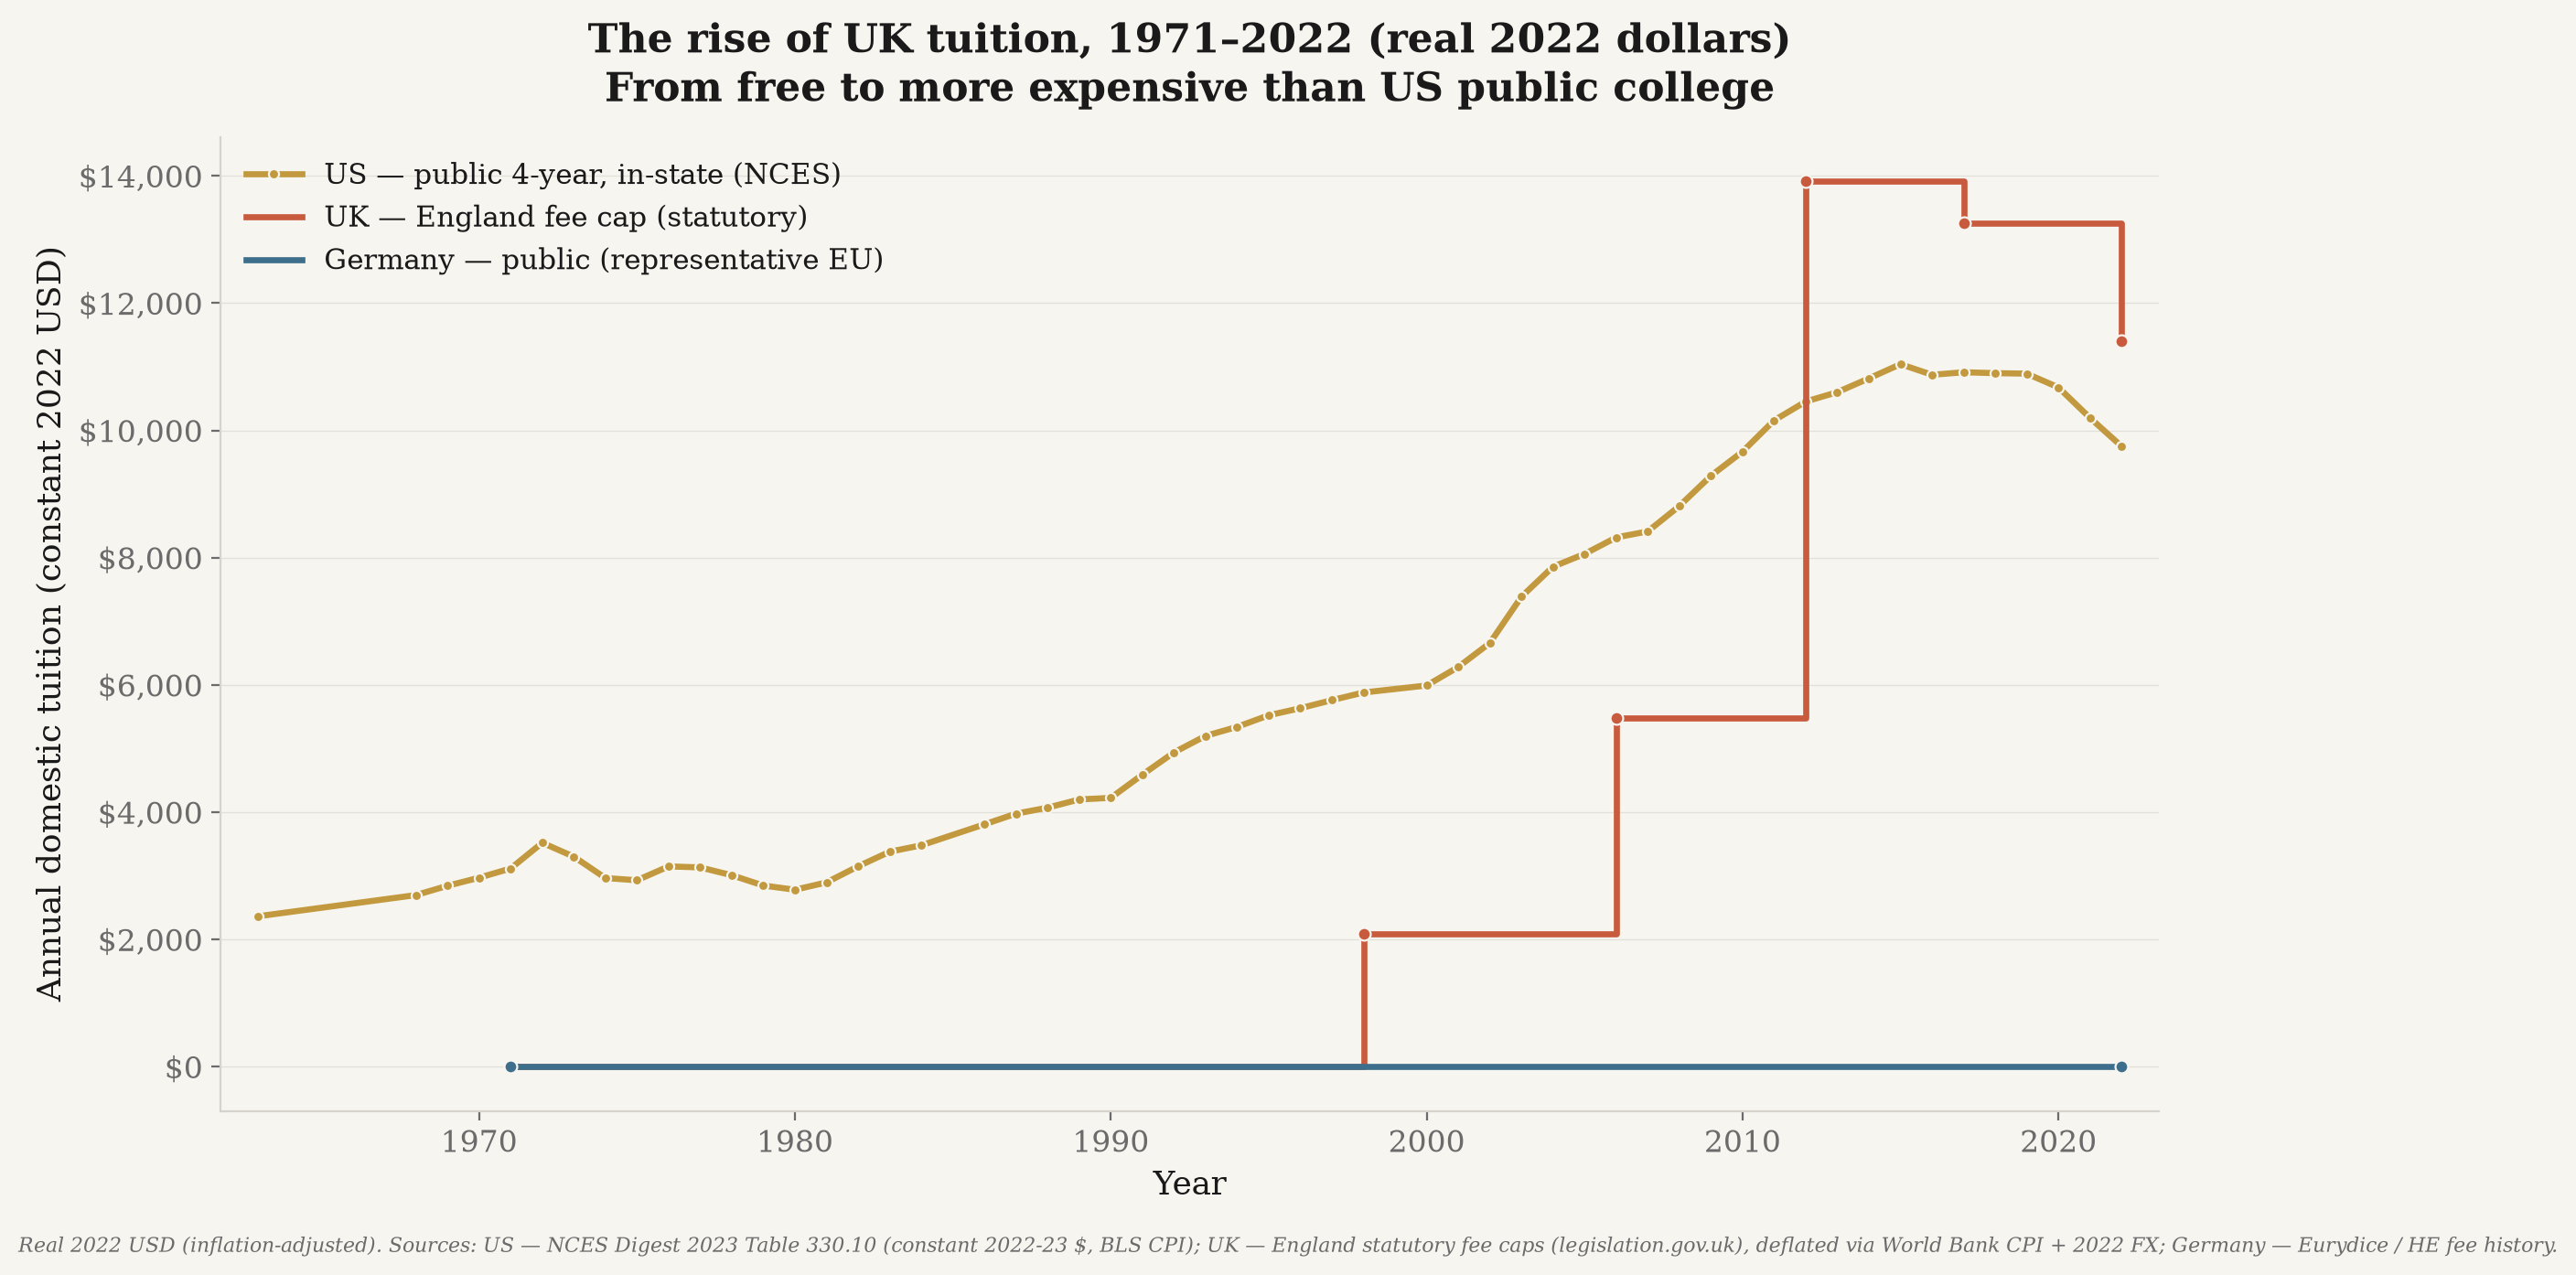
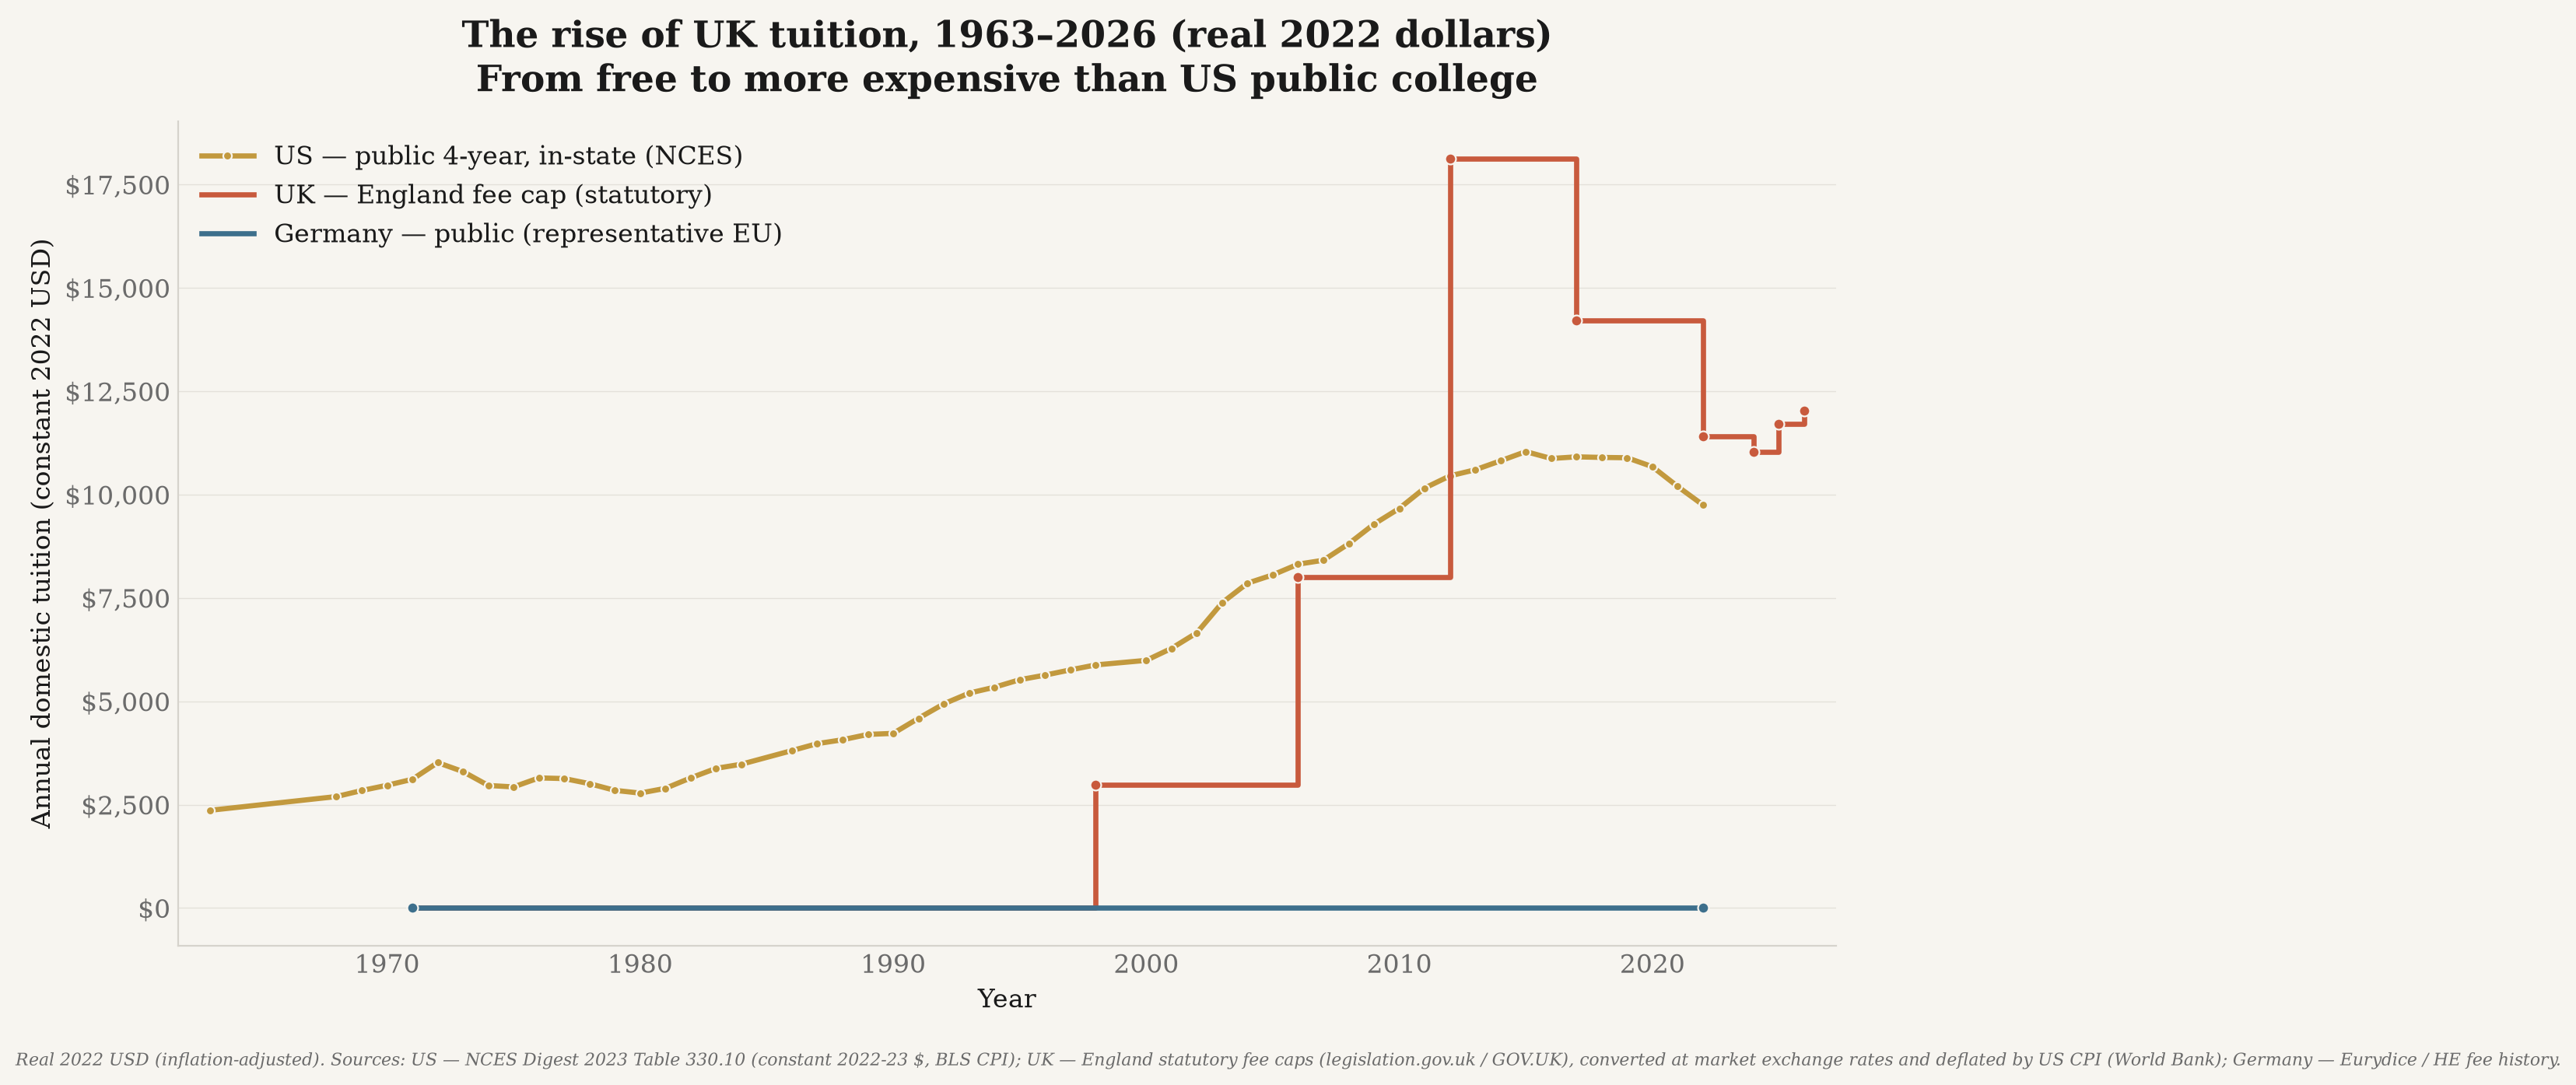
update scorecard

diff --git a/tuition/build_history.py b/tuition/build_history.py
@@ -5,8 +5,9 @@ Every figure is traceable to a real primary source:
            taken directly in the table's own **constant 2022-23 dollars** (CPI-adjusted
            by the U.S. Bureau of Labor Statistics). Fetched by ``fetch_nces.py``.
   * UK   — England statutory fee caps (Acts / SIs on legislation.gov.uk), nominal GBP,
-           deflated to constant-2022 GBP using **World Bank CPI (FP.CPI.TOTL)** and
-           converted to USD using the **World Bank 2022 exchange rate (PA.NUS.FCRF)**.
+           converted to USD at the **year's market exchange rate** (World Bank PA.NUS.FCRF)
+           and deflated to constant-2022 USD by **US CPI (FP.CPI.TOTL)** — the same basis as
+           the NCES US series, so UK and US are directly comparable.
   * DE   — Germany (representative EU): no general tuition (0), from Eurydice / HE history.
 
 Output: ``data/processed/tuition_history.csv`` with nominal and real-2022-USD columns and
@@ -32,13 +33,19 @@ def _nearest(series: dict[int, float], year: int) -> tuple[int, float] | None:
     return best, series[best]
 
 
-def real_base_usd(nominal_local: float, cpi_at_year: float, cpi_base: float, fx_base_lcu_per_usd: float) -> float:
-    """Deflate nominal local currency to constant base-year USD.
+def real_base_usd(nominal_local: float, fx_year_lcu_per_usd: float,
+                  us_cpi_year: float, us_cpi_base: float) -> float:
+    """Convert nominal local-currency tuition to constant base-year (2022) USD.
 
-    real_base_local = nominal * (CPI_base / CPI_year);  USD = real_base_local / FX_base.
+    Consistent with the US NCES series (real US$ deflated by US CPI) and the project's
+    house methodology: convert at that **year's market exchange rate**, then deflate by
+    **US CPI** to the base year.
+
+        nominal_usd = nominal_local / FX_year(LCU per US$)
+        real_base_usd = nominal_usd * (US_CPI_base / US_CPI_year)
     """
-    real_local = nominal_local * (cpi_base / cpi_at_year)
-    return real_local / fx_base_lcu_per_usd
+    nominal_usd = nominal_local / fx_year_lcu_per_usd
+    return nominal_usd * (us_cpi_base / us_cpi_year)
 
 
 def load_nces() -> list[dict]:
@@ -63,10 +70,23 @@ def load_manual() -> list[dict]:
 
 
 def deflate_manual(rows: list[dict]) -> list[dict]:
-    """Deflate nominal local tuition to constant-2022 USD via World Bank CPI + FX."""
+    """Convert nominal local tuition to constant-2022 USD, on the SAME basis as the US NCES
+    series: convert at the year's market exchange rate, then deflate by **US** CPI.
+
+    (Earlier versions deflated by each country's own CPI and used a frozen base-year exchange
+    rate; that made the UK/EU rows non-comparable with the US-CPI-based NCES figures and
+    ignored subsequent moves in the exchange rate. We now match the US basis.)
+    """
     iso3s = sorted({r["iso3"] for r in rows})
-    cpi = fetch_series(config.WB_CPI_INDICATOR, iso3s, 1970, config.REAL_BASE_YEAR)
-    fx = fetch_series(config.WB_FX_INDICATOR, iso3s, config.REAL_BASE_YEAR - 3, config.REAL_BASE_YEAR)
+    max_year = max(int(r["year"]) for r in rows)
+    top = max(config.REAL_BASE_YEAR, max_year)
+    # US CPI is the single deflator (base = 2022); market FX per country per year.
+    us_cpi = fetch_series(config.WB_CPI_INDICATOR, ["USA"], 1970, top).get("USA", {})
+    fx = fetch_series(config.WB_FX_INDICATOR, iso3s, 1970, top)
+
+    us_base = _nearest(us_cpi, config.REAL_BASE_YEAR)
+    if not us_base:
+        raise RuntimeError("missing World Bank US CPI; cannot deflate to real 2022 USD")
 
     out = []
     for r in rows:
@@ -74,13 +94,11 @@ def deflate_manual(rows: list[dict]) -> list[dict]:
         nominal = float(r["annual_tuition_local"])
         real_usd = 0.0
         if nominal != 0:
-            cpi_series = cpi.get(iso3, {})
-            base = _nearest(cpi_series, config.REAL_BASE_YEAR)
-            at_year = _nearest(cpi_series, int(r["year"]))
-            fx_base = _nearest(fx.get(iso3, {}), config.REAL_BASE_YEAR)
-            if not (base and at_year and fx_base and fx_base[1]):
-                raise RuntimeError(f"missing World Bank CPI/FX for {iso3}; cannot deflate {r['country']} {r['year']}")
-            real_usd = real_base_usd(nominal, at_year[1], base[1], fx_base[1])
+            us_at = _nearest(us_cpi, int(r["year"]))
+            fx_at = _nearest(fx.get(iso3, {}), int(r["year"]))
+            if not (us_at and fx_at and fx_at[1]):
+                raise RuntimeError(f"missing World Bank US CPI/FX for {iso3}; cannot deflate {r['country']} {r['year']}")
+            real_usd = real_base_usd(nominal, fx_at[1], us_at[1], us_base[1])
         out.append({
             "country": r["country"], "iso3": iso3, "region": r["region"],
             "year": int(r["year"]),

diff --git a/tests/test_tuition.py b/tests/test_tuition.py
@@ -136,10 +136,13 @@ from tuition import build_history
 
 
 def test_real_base_usd_deflation():
-    # nominal 1000 GBP, CPI 80 at year vs 100 base -> real 1250 GBP; /0.8 FX -> 1562.50 USD
-    assert build_history.real_base_usd(1000, cpi_at_year=80, cpi_base=100, fx_base_lcu_per_usd=0.8) == 1562.5
-    # base year itself (cpi_year == cpi_base, USD fx=1) is the identity
-    assert build_history.real_base_usd(9750, cpi_at_year=100, cpi_base=100, fx_base_lcu_per_usd=1.0) == 9750
+    # nominal 1000 GBP at FX 0.8 LCU/USD -> $1250 nominal; US CPI 80 at year vs 100 base
+    # -> inflate to base: 1250 * (100/80) = $1562.50
+    assert build_history.real_base_usd(1000, fx_year_lcu_per_usd=0.8,
+                                       us_cpi_year=80, us_cpi_base=100) == 1562.5
+    # base year itself (US CPI year == base, USD fx=1) is the identity
+    assert build_history.real_base_usd(9750, fx_year_lcu_per_usd=1.0,
+                                       us_cpi_year=100, us_cpi_base=100) == 9750
 
 
 def test_nearest_year_lookup():

diff --git a/tuition/plot_history.py b/tuition/plot_history.py
@@ -25,8 +25,9 @@ SERIES = {
 }
 SOURCE_NOTE = (
     "Real 2022 USD (inflation-adjusted). Sources: US — NCES Digest 2023 Table 330.10 "
-    "(constant 2022-23 $, BLS CPI); UK — England statutory fee caps (legislation.gov.uk), "
-    "deflated via World Bank CPI + 2022 FX; Germany — Eurydice / HE fee history."
+    "(constant 2022-23 $, BLS CPI); UK — England statutory fee caps (legislation.gov.uk / "
+    "GOV.UK), converted at market exchange rates and deflated by US CPI (World Bank); "
+    "Germany — Eurydice / HE fee history."
 )
 
 
@@ -61,8 +62,10 @@ def plot(out_path: str) -> None:
     ax.set_ylabel("Annual domestic tuition (constant 2022 USD)")
     ax.set_xlabel("Year")
     ax.yaxis.set_major_formatter(plt.FuncFormatter(lambda v, _: f"${v:,.0f}"))
+    all_years = [y for pts in data.values() for y, _ in pts]
+    span = f"{min(all_years)}\u2013{max(all_years)}" if all_years else ""
     ax.set_title(
-        "The rise of UK tuition, 1971\u20132022 (real 2022 dollars)\n"
+        f"The rise of UK tuition, {span} (real 2022 dollars)\n"
         "From free to more expensive than US public college",
         fontweight="bold", pad=14,
     )